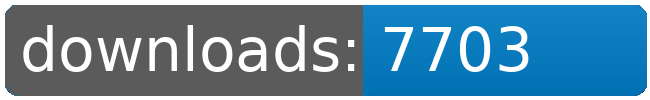
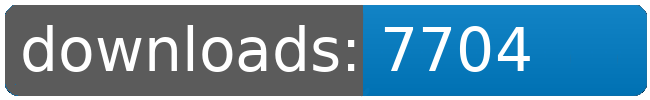
dl log written

Changed region(s): [[0.7692, 0.24, 0.8308, 0.72]]

diff --git a/README.md b/README.md
@@ -65,8 +65,8 @@
 		<td>7680</td>
 		<td>7691</td>
 		<td>7697</td>
-		<td>7703</td>
-		<td>+ 6</td>
+		<td>7704</td>
+		<td>+ 7</td>
 	</tr>
 	<tr>
 		<td>Louise.Conglomerate.Shipyards</td>
@@ -76,8 +76,8 @@
 		<td>8343</td>
 		<td>8355</td>
 		<td>8361</td>
-		<td>8368</td>
-		<td>+ 7</td>
+		<td>8369</td>
+		<td>+ 8</td>
 	</tr>
 	<tr>
 		<td>Sheragi.Rebirth.Redux</td>
@@ -120,8 +120,8 @@
 		<td></td>
 		<td></td>
 		<td></td>
-		<td>63849</td>
-		<td>54</td>
+		<td>63851</td>
+		<td>56</td>
 	</tr>
 </table>
 </sub></sup>
@@ -168,8 +168,8 @@
 		<td>8343</td>
 		<td>8355</td>
 		<td>8361</td>
-		<td>8368</td>
-		<td>+ 7</td>
+		<td>8369</td>
+		<td>+ 8</td>
 	</tr>
 	<tr>
 		<td>Korunak.Defense.Drones</td>
@@ -179,8 +179,8 @@
 		<td>7680</td>
 		<td>7691</td>
 		<td>7697</td>
-		<td>7703</td>
-		<td>+ 6</td>
+		<td>7704</td>
+		<td>+ 7</td>
 	</tr>
 	<tr>
 		<td>Factory.Outlets</td>
@@ -245,8 +245,8 @@
 		<td></td>
 		<td></td>
 		<td></td>
-		<td>63849</td>
-		<td>54</td>
+		<td>63851</td>
+		<td>56</td>
 	</tr>
 </table>
 </sub></sup>
@@ -254,7 +254,6 @@
 <table>
 	<tr>
 		<td> </td>
-		<td>2026-09-05</td>
 		<td>2026-09-06</td>
 		<td>2026-09-07</td>
 		<td>2026-09-08</td>
@@ -263,10 +262,10 @@
 		<td>2026-09-11</td>
 		<td>2026-09-12</td>
 		<td>2026-09-13</td>
+		<td>2026-09-14</td>
 	</tr>
 	<tr>
 		<td>page views</td>
-		<td>22</td>
 		<td>9</td>
 		<td>4</td>
 		<td>1</td>
@@ -275,10 +274,10 @@
 		<td>67</td>
 		<td>66</td>
 		<td>15</td>
+		<td>0</td>
 	</tr>
 	<tr>
 		<td>unique visitors</td>
-		<td>8</td>
 		<td>5</td>
 		<td>3</td>
 		<td>1</td>
@@ -287,6 +286,7 @@
 		<td>7</td>
 		<td>8</td>
 		<td>6</td>
+		<td>0</td>
 	</tr>
 </table>
 <br>
